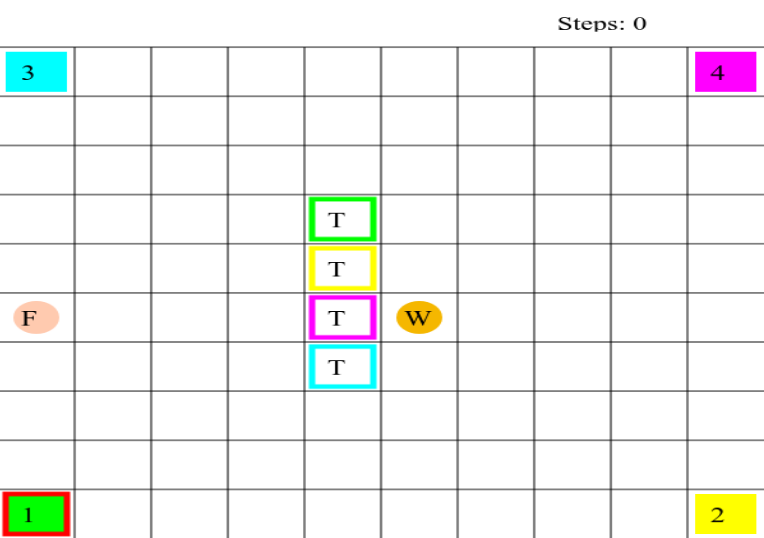
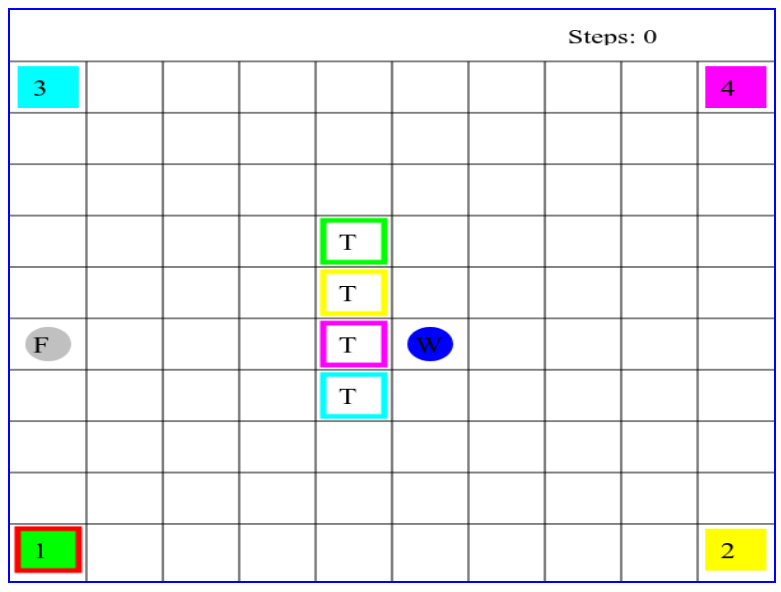
updated text, changed tutorial format

Changed region(s): [[0.0, 0.0, 1.0, 1.0]]

diff --git a/website/cheat_sheet.html b/website/cheat_sheet.html
@@ -24,10 +24,10 @@
                     <div class="col">
                         <p style="margin-top: 5%">
                             There are two players in this game: “worker” and “fetcher”.<br>
-                            The goal of the worker is to go to the correct numbered workstation
+                            The goal of the worker is to go to the correct numbered station
                             (<b>red frame</b>).<br>
-                            The goal of the fetcher to go to relevant toolstation and then
-                            go to the worker’s station.
+                            The goal of the fetcher is to go to the corresponding colored toolbox
+                            (labeled T), obtain the tool, and then go to the worker’s station.
                         </p>
                         <p>
                             A given scenario will look similar to the image on the right:
@@ -41,21 +41,15 @@
         </div>
 
         <p style="margin-top: 5%; margin-left: 10%; margin-right: 10%; text-align: justify">
-            <b>Important:</b> The fetcher does not know the worker's goal and will need to infer
-            it
-            based on the worker's actions.
+            <b>Remember:</b> The fetcher does not know the worker's goal and will need to infer
+            it based on the worker's actions.
             <br>
             <br>
-            You will play the role of the worker: the circular yellow agent, labelled “W”.
-            Your goal is to move to the goal station and press the “Done” button once you’ve
-            reached it.
+            <b>You control the worker:</b> the circular blue agent, labelled “W”.
             <br>
             <br>
-            <b>
-                Your main objective should be to act in such a way that the fetcher can figure
-                out what you goal is at the earliest possible timestep. That way, the fetcher
-                will know as soon as possible what tool to fetch.
-            </b>
+            <b>Your main objective</b> should be to act in such a way that the fetcher joins you
+                at the goal station with a <b>MINIMAL</b> number of steps.
             <br>
             <br>
         </p>
@@ -80,7 +74,7 @@
                             <br>
                             Right - Move right
                             <br>
-                            Space - Work (press when reaching desired workstation)
+                            Space - Work (press when reaching the goal station)
                             <br>
                             Enter - Wait (don't move for one turn)
                         </p>

diff --git a/website/experiment.html b/website/experiment.html
@@ -13,8 +13,8 @@
 <body>
 <div style="text-align: center; margin-top: 10px; margin-bottom: 10px; font-size: 20px;">
     <p><b>(Initial loading might take a moment)</b></p>
-    <p>Reach target workstation and press "Work" (space).</p>
-    <p><b>Remember:</b> A low number of steps can earn you a bonus.</p>
+    <p>Reach goal station and press "Work" (space)</p>
+    <p><b>Remember:</b> Try to minimize the number of steps</p>
 
 </div>
 <div id="mycanvas"></div>

diff --git a/website/website.py b/website/website.py
@@ -70,7 +70,7 @@ EXPERIMENTS = {
 }
 TUTORIALS = {
     # Station at every corner of square, worker in middle (for instructions)
-    "tutorial": [
+    "1": [
         10, 10,
         [[0, 0], [9, 0], [0, 9], [9, 9]],
         0,
@@ -79,7 +79,7 @@ TUTORIALS = {
         [0, 4],
         [600, 600],
         17, ],
-    "deceive-0": [
+    "2": [
         10, 10,
         [[4, 8], [4, 9], [6, 9]],
         1,
@@ -426,7 +426,7 @@ class GUI:
 
         # Colors --Yotam
         rgb_list = [
-            (0, 255, 0),  # Green
+            GREEN,  # Green
             (255, 255, 0),  # Yellow
             (0, 255, 255),  # Cyan
             (255, 0, 255),  # Magenta
@@ -501,9 +501,9 @@ class GUI:
         pygame.draw.circle(self.screen, color, (int(gui_x), int(gui_y)), int(self.radius))
         if tool_color:
             start_x, end_x = circle_x * self.box_width, (circle_x + 1) * self.box_width
-            for i in range(-1,2):
-                pygame.draw.line(self.screen, tool_color, (start_x + 20, gui_y + 10+i),
-                                (end_x - 20, gui_y + 10+i))
+            for i in range(-1, 3):
+                pygame.draw.line(self.screen, tool_color, (start_x + 20, gui_y + 10 + i),
+                                 (end_x - 20, gui_y + 10 + i))
 
     # Text within station or agent
     def render_text(self, textString, box_x, box_y, color=BLACK):
@@ -524,7 +524,7 @@ class GUI:
         text = self.font.render(strng, True, WHITE)
         self.screen.blit(text, (self.width / 2 - 110, txt_pos_y))
         txt_pos_y += spacing
-        strng = "Target workstation is number {}".format(self.goal_stn + 1)
+        strng = "goal station is number {}".format(self.goal_stn + 1)
         text = self.font.render(strng, True, BLUE)
         self.screen.blit(text, (txt_pos_x, txt_pos_y))
         txt_pos_y += spacing
@@ -543,7 +543,7 @@ class GUI:
         text = self.font.render("Right - Move right", True, BLACK)
         self.screen.blit(text, (txt_pos_x, txt_pos_y))
         txt_pos_y += spacing
-        text = self.font.render("Space - Work (at workstation)", True, BLACK)
+        text = self.font.render("Space - Work (at station)", True, BLACK)
         self.screen.blit(text, (txt_pos_x, txt_pos_y))
         txt_pos_y += spacing
         text = self.font.render("Enter - Wait (don't move)", True, BLACK)
@@ -571,7 +571,7 @@ class GUI:
     def draw_explanation(self, condition, inferred_goals=[]):
         self.font = pygame.font.SysFont("lucidaconsole", 20)
         goals = " ,".join([str(x + 1) for x in inferred_goals])
-        self.render_text("Relevant workstations: {}".format(goals), 0, self.num_rows - 1)
+        self.render_text("Relevant stations: {}".format(goals), 0, self.num_rows - 1)
 
     def draw_steps(self):
         self.font = pygame.font.SysFont("lucidaconsole", 20)
@@ -603,17 +603,16 @@ class GUI:
         self.render_all_stations()
 
         # Worker
-        self.render_agent(self.prev_user[0], self.prev_user[1], ORANGE_YELLOW)
+        self.render_agent(self.prev_user[0], self.prev_user[1], BLUE)
         self.render_text("W", self.prev_user[0], self.prev_user[1])
 
         # Fetcher
-        self.render_agent(self.prev_robot[0], self.prev_robot[1],
-                          APRICOT)
+        self.render_agent(self.prev_robot[0], self.prev_robot[1], GRAY)
         self.render_text("F", self.prev_robot[0], self.prev_robot[1])
 
         # Tutorial Text
         if self.tutorial:
-            text = "You don't need to go to the Tool station" if self.goal_stn == 0 else "You can pass through stations"
+            text = "You don't need to go to the toolbox" if self.goal_stn == 0 else "You can move through stations"
             self.render_text(text, 0, 5, BLACK)
         pygame.display.flip()
 
@@ -626,14 +625,14 @@ class GUI:
             self.render_all_stations()  # If agent overlay
 
             # User
-            self.render_agent(self.user[0], self.user[1], ORANGE_YELLOW)
+            self.render_agent(self.user[0], self.user[1], BLUE)
             self.render_text("W", self.user[0], self.user[1])
 
             # Robot
             if self.robot_stay:
                 self.robot_stay = False
 
-            fetcher_color = APRICOT
+            fetcher_color = GRAY
             if 'GR' in self.condition and len(inferred_goals) == 1:
                 fetcher_color = self.colors[inferred_goals[0]]
 
@@ -690,6 +689,10 @@ class GUI:
             strng = "Completed in optimal number of steps: {}".format(optimal)
             text = self.font.render(strng, True, WHITE)
             self.screen.blit(text, (self.width / 2 - 250, 200))
+        else:
+            strng = "Current best score: {}".format(game_best_score)
+            text = self.font.render(strng, True, WHITE)
+            self.screen.blit(text, (self.width / 2 - 150, 200))
 
         text = self.font.render("Press Tab to continue", True, WHITE)
         self.screen.blit(text, (self.width / 2 - 150, 400))
@@ -708,7 +711,7 @@ class GUI:
                     return
 
     # Move fetcher agent (robot)
-    def _move_agent(self, other_agent_move,inferred_goals):
+    def _move_agent(self, other_agent_move, inferred_goals):
         self.prev_robot[0] = self.robot[0]
         self.prev_robot[1] = self.robot[1]
         move = other_agent_move[0]
@@ -812,7 +815,8 @@ def run_exp(condition, tutorial=False):
     condition = EXP_CONDS[condition]
     repetitions = 3
     """ Environments: [Num Cols, Num Rows, Stations, Goal, Tool, Worker, Fetcher] """
-    exp = TUTORIALS if tutorial else EXPERIMENTS
+    exp = {"tutorial_"+tutorial: TUTORIALS[tutorial]} if tutorial else EXPERIMENTS
+
     for i, scenario in enumerate(exp.items()):
         scenario_name, scenario_values = scenario
         game_best_score = float("inf")
@@ -897,5 +901,5 @@ def run_exp(condition, tutorial=False):
 
 
 if __name__ == '__main__':
-    # run_exp("VG", False)
+    # run_exp("VG", "2")
     print()
